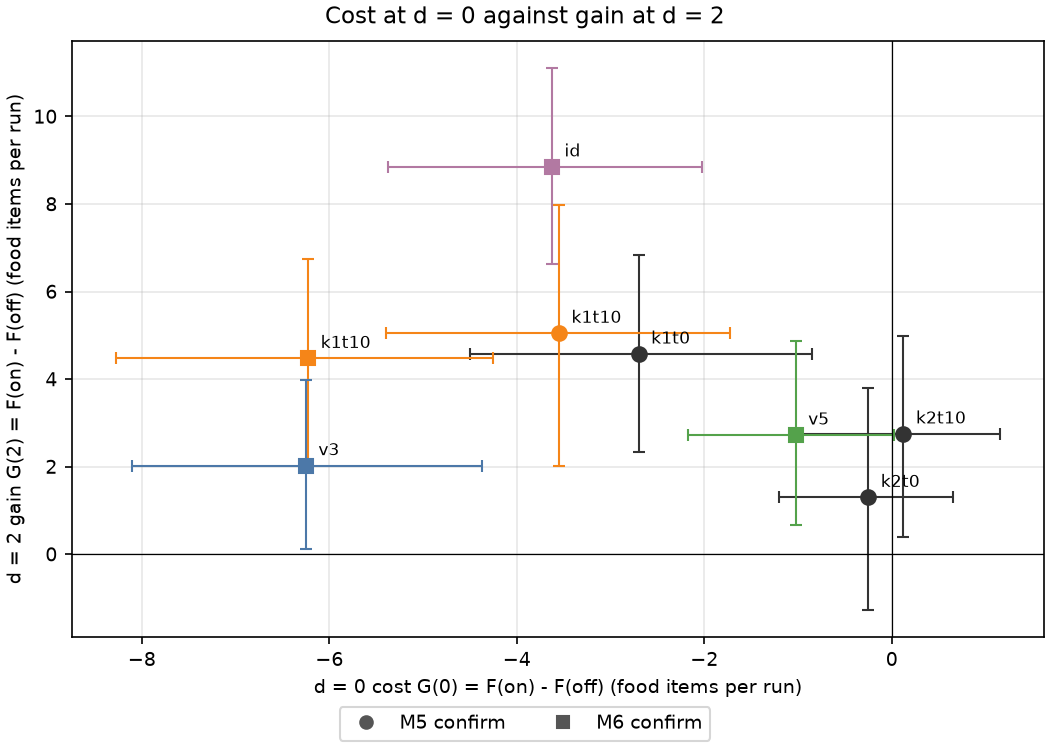
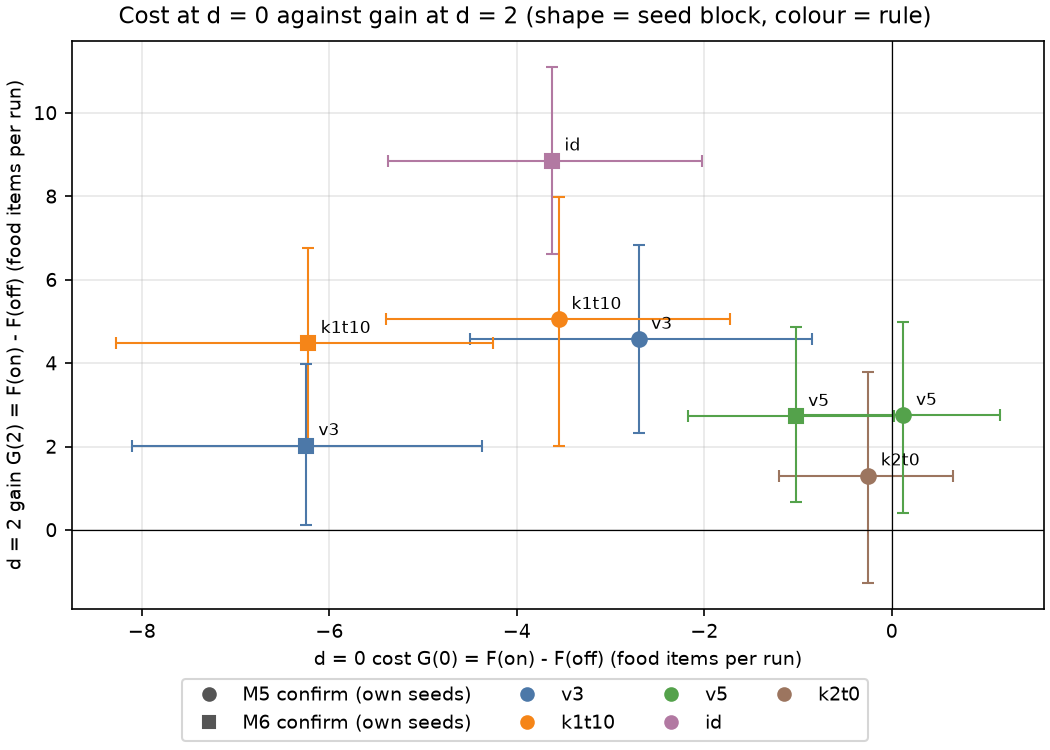
01_pheromone: cost-vs-gain figure uses one name and colour per rule (review N6)

diff --git a/01_pheromone/tools/final_figs.py b/01_pheromone/tools/final_figs.py
@@ -19,7 +19,9 @@ from g2_stats import BOOT_SEED, N_BOOT  # noqa: E402
 
 __all__ = ["boot_mean_interval", "fig_m6_food", "fig_cost_vs_gain", "fig_honest_isolation", "fig_scale"]
 
-COLORS = {"off": "#7f7f7f", "v3": "#4c78a8", "k1t10": "#f58518", "v5": "#54a24b", "id": "#b279a2"}
+COLORS = {"off": "#7f7f7f", "v3": "#4c78a8", "k1t10": "#f58518", "v5": "#54a24b", "id": "#b279a2", "k2t0": "#9c755f"}
+# One name per rule across blocks (project-end review N6): M5 labels k1t0 and k2t10 are the same rules as v3 and v5.
+ALIAS = {"k1t0": "v3", "k2t10": "v5"}
 MARKERS = {"M5": "o", "M6": "s"}
 plt.rcParams.update({"font.size": 9, "axes.grid": True, "grid.alpha": 0.3, "axes.axisbelow": True})
 
@@ -63,6 +65,7 @@ def fig_cost_vs_gain(rows: list[dict], out: Path) -> Path:
         if d != 0:
             continue
         r2 = by[(block, arm, 2)]
+        arm = ALIAS.get(arm, arm)
         color = COLORS.get(arm, "#333333")
         ax.errorbar(r0["G"], r2["G"], xerr=[[r0["G"] - r0["G_lo"]], [r0["G_hi"] - r0["G"]]],
                     yerr=[[r2["G"] - r2["G_lo"]], [r2["G_hi"] - r2["G"]]], marker=MARKERS[block],
@@ -72,9 +75,10 @@ def fig_cost_vs_gain(rows: list[dict], out: Path) -> Path:
     ax.axvline(0, color="k", lw=0.6)
     ax.set_xlabel("d = 0 cost G(0) = F(on) - F(off) (food items per run)")
     ax.set_ylabel("d = 2 gain G(2) = F(on) - F(off) (food items per run)")
-    fig.suptitle("Cost at d = 0 against gain at d = 2")
-    handles = [plt.Line2D([], [], ls="", marker=m, color="#555555", label=f"{b} confirm") for b, m in MARKERS.items()]
-    fig.legend(handles=handles, loc="outside lower center", ncol=len(handles))
+    fig.suptitle("Cost at d = 0 against gain at d = 2 (shape = seed block, colour = rule)")
+    handles = [plt.Line2D([], [], ls="", marker=m, color="#555555", label=f"{b} confirm (own seeds)") for b, m in MARKERS.items()]
+    handles += [plt.Line2D([], [], ls="", marker="o", color=c, label=a) for a, c in COLORS.items() if a != "off"]
+    fig.legend(handles=handles, loc="outside lower center", ncol=4)
     return _save(fig, out)
 
 
